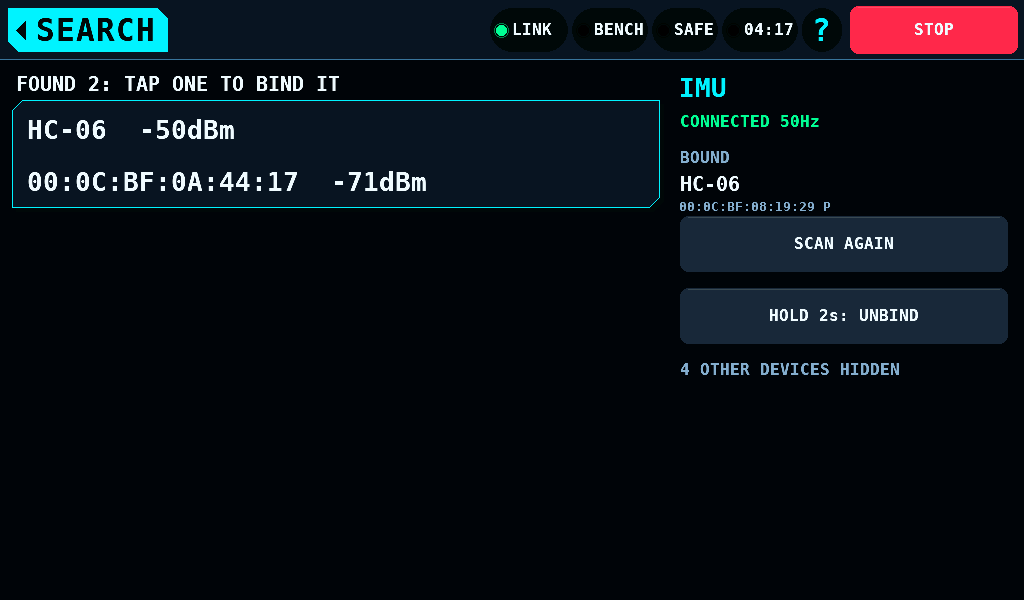
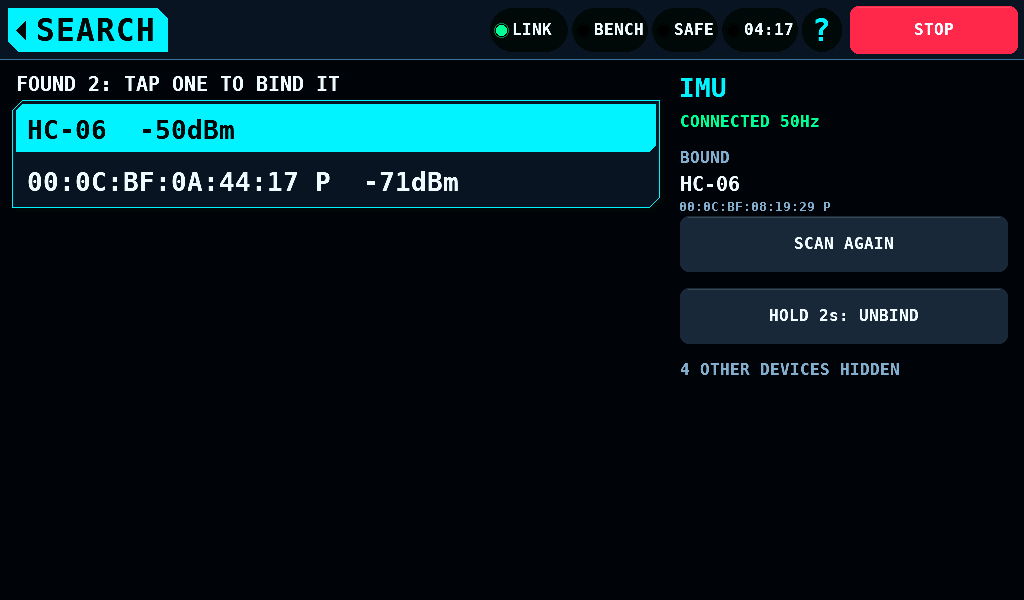
Give SEARCH's IMU entries their address type
SEARCH matches the bound device among the found ones by address text.
The IMU's found addresses carried no type, while its bound address ends
in " P" or " R" as imu_ble_bind() keeps it, so the bound sensor was never
marked and its bind question read as another device's. The IMU's entries
now take the bound address's form (bleu_addr_parse(), bleu_addr_format()
with the type), as the Dial's, the nodes' and the printer's already do.

Test: test_wireless_imu search_knows_the_bound_sensor_by_its_address_and_type.

Changed region(s): [[0.0, 0.15, 0.6562, 0.33]]

diff --git a/test/host/test_wireless_imu.c b/test/host/test_wireless_imu.c
@@ -283,7 +283,7 @@ TEST_CASE(scan_opens_search_posts_the_scan_and_a_found_sensor_binds)
     wls_view_t sv;
     wl_search_view(&sv);
     CHECK_EQ(sv.hidden, 3u);
-    CHECK_STR_EQ(sv.found[1].addr, "00:0C:BF:08:19:30");
+    CHECK_STR_EQ(sv.found[1].addr, "00:0C:BF:08:19:30 P");
     ui_router_render(&s_c, 0);
     /* The second one tapped, then BIND: its index goes out. */
     gfx_rect_t r;
@@ -316,6 +316,31 @@ TEST_CASE(scan_opens_search_posts_the_scan_and_a_found_sensor_binds)
     tap_row(&wireless_pane_imu_bind_row);
     CHECK_EQ(ui_router_current(), SCREEN_WL_SEARCH);
     CHECK_EQ(took().kind, IMU_CMD_NONE);
+}
+
+/* SEARCH knows the bound sensor among the found ones by its address as
+ * text: the found entries carry the type, as the bind keeps it, so the
+ * bound one is marked and another one of the same address but the other
+ * type is not. */
+TEST_CASE(search_knows_the_bound_sensor_by_its_address_and_type)
+{
+    imu_view_t v = view_connected();
+    v.link = IMU_LINK_READY;
+    on_imu(&v);
+    tap_row(&wireless_pane_imu_bind_row);
+    REQUIRE(ui_router_current() == SCREEN_WL_SEARCH);
+    v.scan_done = true;
+    v.found_n = 2u;
+    snprintf(v.found[0].addr, sizeof v.found[0].addr, "00:0C:BF:08:19:29");
+    v.found[0].addr_type = 0u;
+    snprintf(v.found[1].addr, sizeof v.found[1].addr, "00:0C:BF:08:19:29");
+    v.found[1].addr_type = 1u;
+    imu_view_set(&v);
+    wls_view_t sv;
+    wl_search_view(&sv);
+    CHECK_STR_EQ(sv.bound_addr, "00:0C:BF:08:19:29 P");
+    CHECK_STR_EQ(sv.found[0].addr, sv.bound_addr);
+    CHECK_STR_EQ(sv.found[1].addr, "00:0C:BF:08:19:29 R");
 }
 
 TEST_CASE(a_scan_is_refused_on_the_band_while_armed_scanning_or_without_c6)
@@ -640,6 +665,7 @@ int main(void)
     RUN(the_hub_has_no_imu_tile_and_wireless_stands_beside_wifi);
     RUN(the_imu_entry_holds_every_control_of_the_imu_while_on);
     RUN(scan_opens_search_posts_the_scan_and_a_found_sensor_binds);
+    RUN(search_knows_the_bound_sensor_by_its_address_and_type);
     RUN(a_scan_is_refused_on_the_band_while_armed_scanning_or_without_c6);
     RUN(a_scan_refused_while_an_arm_waits_says_why_on_the_band);
     RUN(a_search_while_bluetooth_starts_scans_once_it_runs);

diff --git a/shared/ui/wireless_imu.c b/shared/ui/wireless_imu.c
@@ -13,6 +13,7 @@
 #include <stdio.h>
 #include <string.h>
 
+#include "bleuart.h"
 #include "imu.h"
 #include "imu_view.h"
 #include "sensors_rows.h"
@@ -99,6 +100,25 @@ static void bind_value(char *out, size_t n)
 }
 
 /**
+ * @brief Found sensor @p d's address as SETUP keeps a bound one:
+ *        `00:0C:BF:08:19:29 P` or `... R` (bleu_addr_format()).
+ * @param d   The sensor.
+ * @param out Receives the text; the bare address when it does not parse.
+ * @param n   Its size.
+ */
+static void found_addr(const imu_dev_t *d, char *out, size_t n)
+{
+    char text[IMU_ADDR_MAX + 2u];
+    snprintf(text, sizeof(text), "%s %c", d->addr,
+             d->addr_type == BLEU_ADDR_RANDOM ? 'R' : 'P');
+    bleu_addr_t a;
+    if (!bleu_addr_parse(text, &a)
+        || bleu_addr_format(&a, true, out, n) == 0u) {
+        snprintf(out, n, "%s", d->addr);
+    }
+}
+
+/**
  * @brief SEARCH's view of the sensors: the scan, the found sensors, the
  *        devices the scan heard and did not list, the bound one and the
  *        link state.
@@ -115,8 +135,11 @@ static void search_view(wls_view_t *out)
                                                   : IMU_FOUND_MAX;
     out->found_n = (uint8_t)n;
     for (unsigned i = 0u; i < n; ++i) {
-        wl_search_put(out, i, v->found[i].addr, v->found[i].name,
-                      v->found[i].rssi);
+        /* The address in the bound one's form, with its type, as
+         * imu_ble_bind() keeps it: SEARCH matches the two as text. */
+        char addr[WLS_ADDR_MAX];
+        found_addr(&v->found[i], addr, sizeof(addr));
+        wl_search_put(out, i, addr, v->found[i].name, v->found[i].rssi);
     }
     out->hidden = out->scanning ? 0u : v->hidden;
     snprintf(out->bound_addr, sizeof(out->bound_addr), "%s", v->bound_addr);
